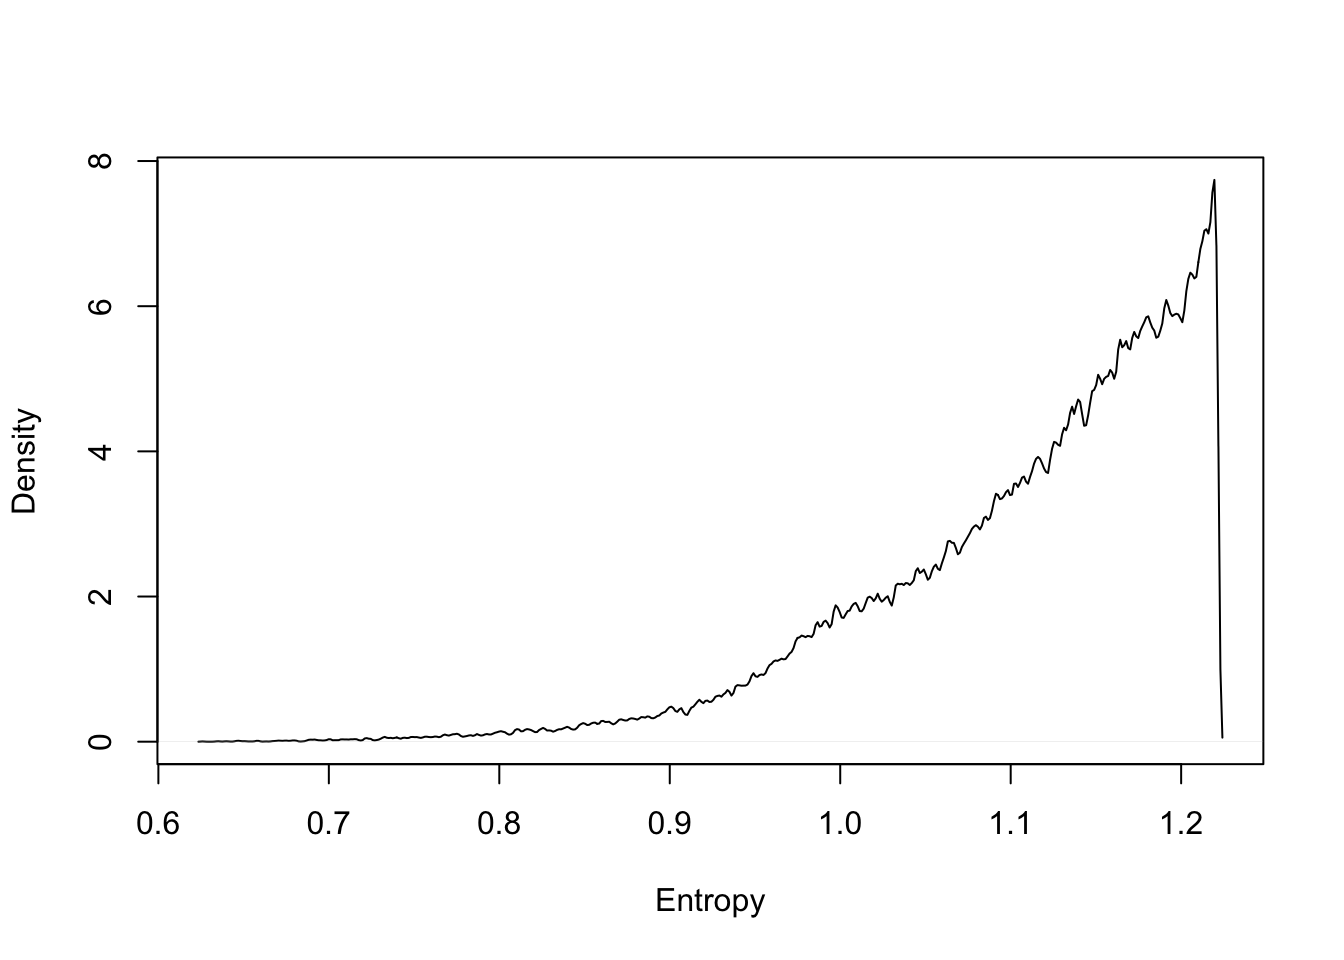
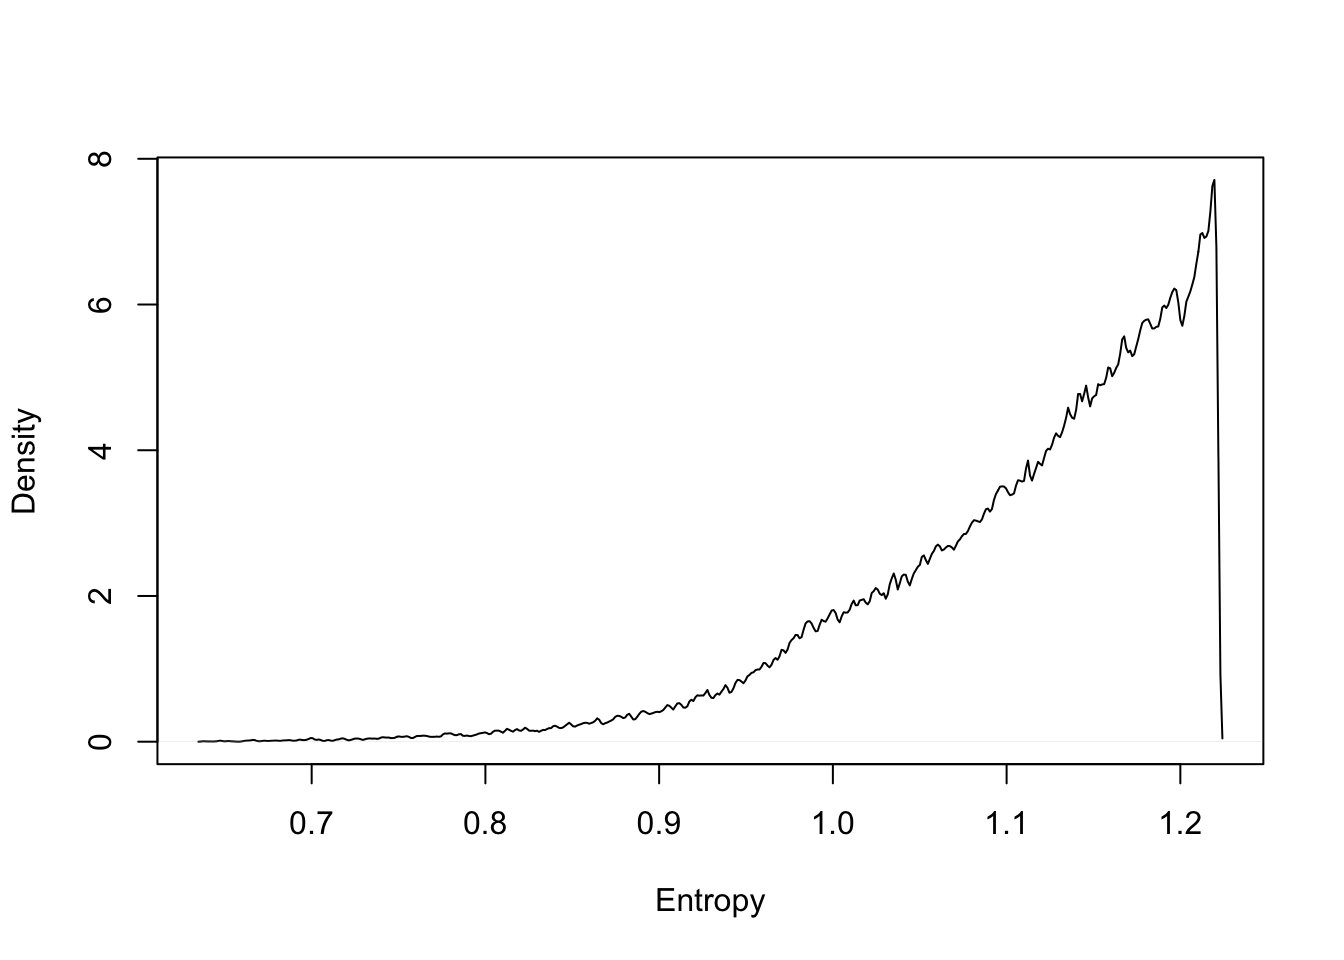
Statistical Rethinking Ch9 update

diff --git a/content/post/2018-04-22-notes-on-statistical-rethinking-chapter-9-big-entropy-and-the-GLM.html b/content/post/2018-04-22-notes-on-statistical-rethinking-chapter-9-big-entropy-and-the-GLM.html
@@ -93,7 +93,7 @@ distributions &lt;- H[2,]
 
 distributions[ which.max(entropies) ]</code></pre>
 <pre><code>## [[1]]
-## [1] 0.09010583 0.21017937 0.20960897 0.49010583</code></pre>
+## [1] 0.08987004 0.21026542 0.20999450 0.48987004</code></pre>
 <pre class="r"><code>max(entropies)</code></pre>
 <pre><code>## [1] 1.221728</code></pre>
 <pre class="r"><code># Theoretical maximum entropy distribution
@@ -158,6 +158,7 @@ p &lt;- 0.7
 <p>The log link maps a parameter that is defined over only positive real values onto a linear model.</p>
 </blockquote>
 <p><span class="math display">\[\begin{eqnarray} { y }_{ i } &amp; \sim  &amp; \text{ Normal }(\mu, { \sigma  }_{ i } ) \\ \log \left( { \sigma }_{ i } \right) &amp; = &amp; \alpha +{ \beta  }{ x }_{ i }  \end{eqnarray}\]</span></p>
+<p>which implies</p>
 <p><span class="math display">\[\sigma_i = \exp \left( \alpha +{ \beta  }{ x }_{ i } \right)\]</span></p>
 <p>{{% alert warning %}} While using a log link does solve the problem of constraining the parameter to be positive, it may also create a problem when the model is asked to predict well outside the range of data used to fit it. {{% /alert %}}</p>
 <blockquote>
